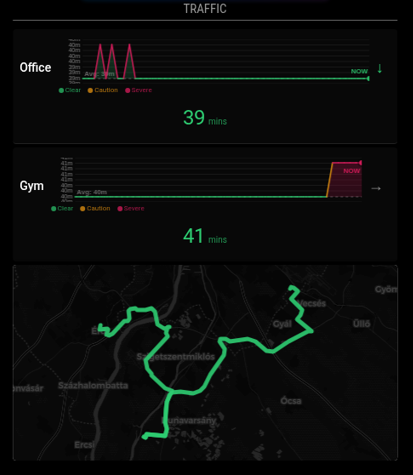
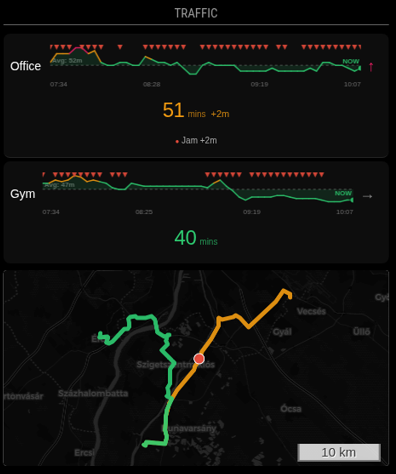
Map indicators added (incidents), delays now shown

diff --git a/MapRenderer.js b/MapRenderer.js
@@ -35,6 +35,17 @@ class MapRenderer {
         this.map = this.tileLayer = this.routeLayer = this._layers = null;
     }
 
+    static _incidentLabel(inc) {
+        const mins = Math.round((inc.delaySeconds ?? 0) / 60);
+        const suffix = mins > 0 ? ` +${mins}m` : "";
+        switch (inc.category) {
+            case "ROAD_CLOSURE": return "Closure";
+            case "JAM": return `Jam${suffix}`;
+            case "ROAD_WORK": return `Roadwork${suffix}`;
+            default: return `Delay${suffix}`;
+        }
+    }
+
     draw(trafficData) {
         if (!this.map || !trafficData?.length) return;
         const allPoints = [], seen = new Set();
@@ -52,9 +63,10 @@ class MapRenderer {
             if (existing) {
                 existing.line.setLatLngs(latLngs).setStyle({ color });
                 existing.incidents.forEach(b => this.routeLayer.removeLayer(b));
+                existing.markers.forEach(m => this.routeLayer.removeLayer(m));
             } else {
                 const line = L.polyline(latLngs, { color, weight: 5, opacity: 0.9, lineJoin: 'round', lineCap: 'round' }).addTo(this.routeLayer);
-                this._layers.set(route.id, { line, latLngs, incidents: [] });
+                this._layers.set(route.id, { line, latLngs, incidents: [], markers: [] });
             }
 
             const entry = this._layers.get(route.id);
@@ -68,12 +80,22 @@ class MapRenderer {
                     dashArray: closure ? '2, 8' : s.category === 'ROAD_WORK' ? '10, 6' : null
                 }).addTo(this.routeLayer);
             });
+            entry.markers = this.config.showMapIncidentMarkers === false ? [] : (route.incidents ?? []).map(s => {
+                const seg = latLngs.slice(s.startPointIndex, s.endPointIndex + 1);
+                const pt = seg[Math.floor(seg.length / 2)] ?? seg[0];
+                if (!pt) return null;
+                return L.circleMarker(pt, {
+                    radius: 6, color: '#fff', weight: 1,
+                    fillColor: ColorTheme.getIncidentColor(s.category, s.magnitude), fillOpacity: 0.95
+                }).bindTooltip(MapRenderer._incidentLabel(s), { direction: 'top' }).addTo(this.routeLayer);
+            }).filter(Boolean);
         });
 
         for (const [id, entry] of this._layers) {
             if (!seen.has(id)) {
                 this.routeLayer.removeLayer(entry.line);
                 entry.incidents.forEach(b => this.routeLayer.removeLayer(b));
+                entry.markers.forEach(m => this.routeLayer.removeLayer(m));
                 this._layers.delete(id);
             }
         }

diff --git a/MMM-TrafficGlance.js b/MMM-TrafficGlance.js
@@ -2,6 +2,7 @@ Module.register("MMM-TrafficGlance", {
     defaults: {
         updateInterval: 300000, thresholds: { critical: 1.25 },
         mapWidth: "100%", mapHeight: "220px", mapZoom: null, mapCenter: null, mapPadding: [20, 20],
+        showMapIncidentMarkers: true,
         api: { timeout: 10000, routeType: "fastest", travelMode: "car", traffic: true, avoidTolls: false, avoidHighways: false },
         sparkline: { enabled: true, width: 160, height: 40, showBaseline: true, showNowIndicator: true,
             showNowLabel: true, maxDataPoints: 50, lookbackHours: 48, showBaselineLabel: true, useZScoreColors: true,

diff --git a/README.md b/README.md
@@ -3,7 +3,7 @@
 Real-time traffic monitoring module for MagicMirror² with TomTom integration, historical sparkline analysis, and a live route map.
 
 ![MagicMirror](https://img.shields.io/badge/MagicMirror-v2.33.0-blue)
-![Version](https://img.shields.io/badge/Version-1.1.22-yellow)
+![Version](https://img.shields.io/badge/Version-1.1.23-yellow)
 ![License](https://img.shields.io/badge/License-MIT-lightgrey)
 ![Node](https://img.shields.io/badge/Node-%3E%3D22.5-green)
 
